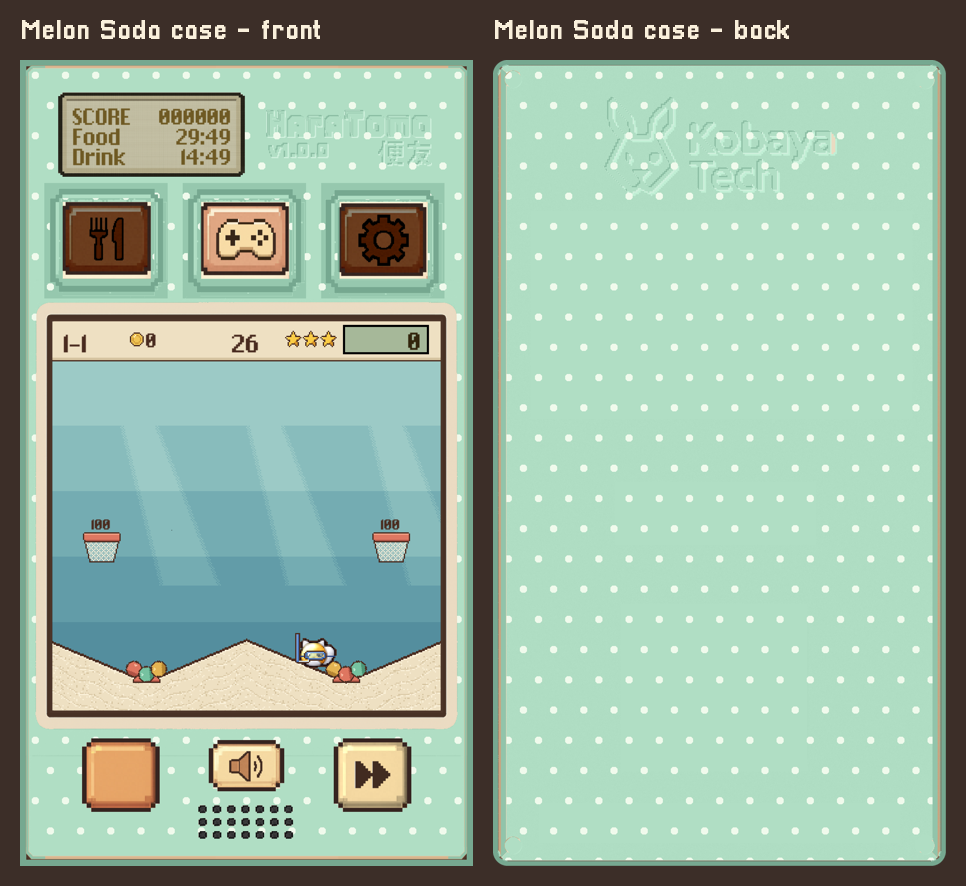
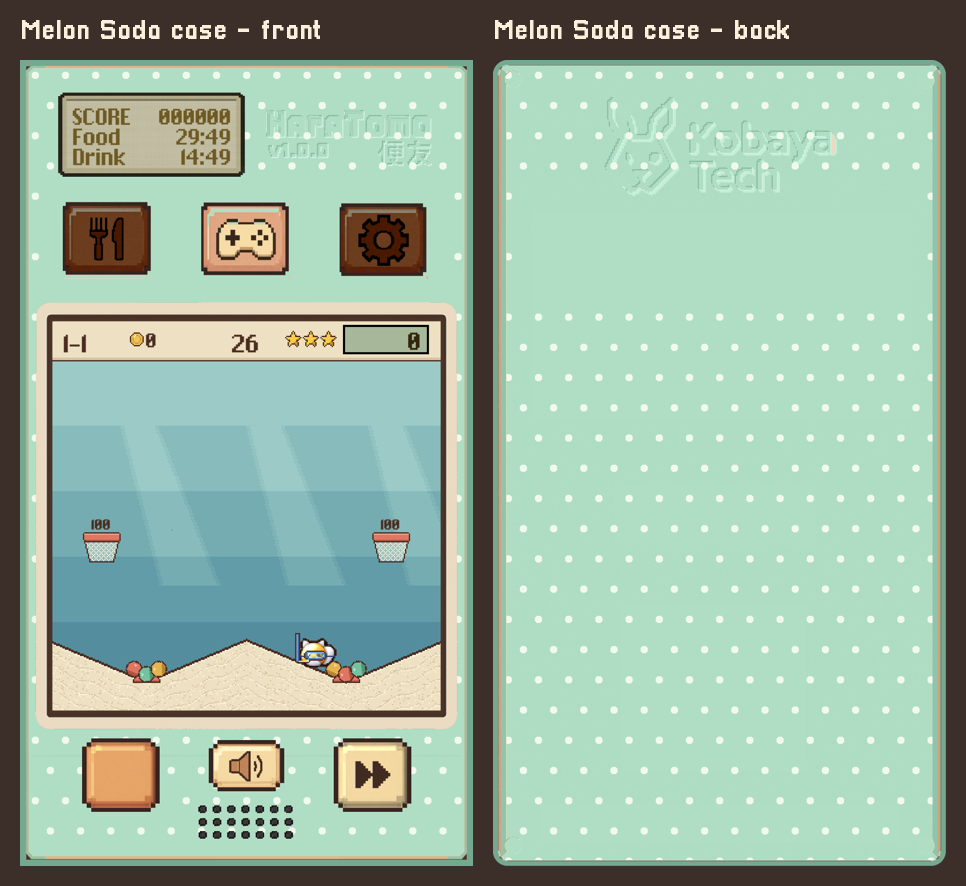
Case mockup: menu button bumps in plain case colour, no cream, no dots

Changed region(s): [[0.0311, 0.1828, 0.4658, 0.3352]]

diff --git a/docs/ideas_roadmap.md b/docs/ideas_roadmap.md
@@ -629,8 +629,9 @@ then pages); the section's name is the page title. Coins on the frame's top band
    (back, nothing else carved there) are CARVED into it, in
    the case's own colour (pressed in: a shade on the top-left inner edge, light on the bottom
    right). The menu buttons' (top three) borders are part of the case (user, 2026-10-13): raised
-   bumps in the case's colours that hide the device's cream there, each with a hole showing only
-   the pressable face and its dark outline. The bottom buttons stay as they are.
+   bumps in the case's plain colour (no pattern, no darker square) that hide the device's cream
+   there, each with a hole showing only the pressable face and its dark outline. The bottom
+   buttons stay as they are.
    The case covers the battery compartment too (user, 2026-10-13): to change the
    batteries you take the case off.
    TO DECIDE (user, 2026-10-13): how a case is put on / taken off (on the device's back, flipped:
